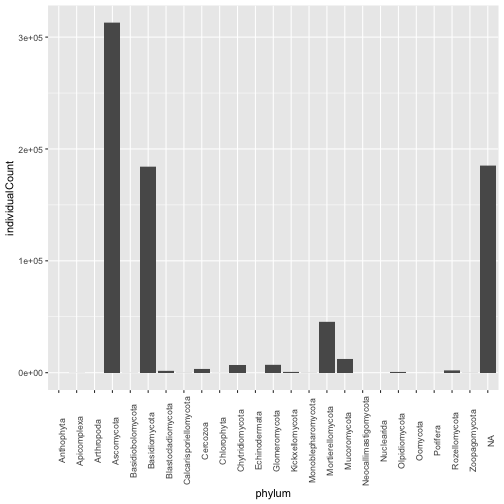
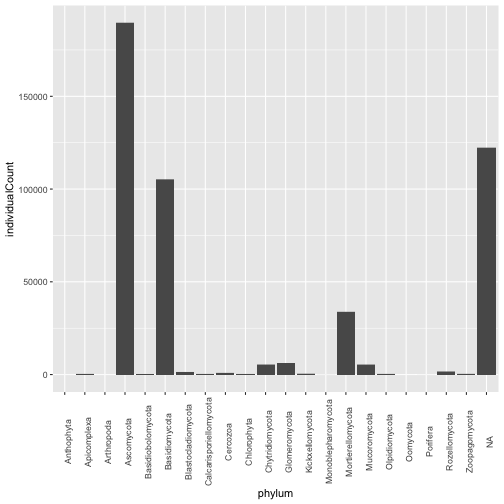
update new features script

diff --git a/tutorials/R/NEON-general/neon-overview/new-features-2025/new-features-2025.html b/tutorials/R/NEON-general/neon-overview/new-features-2025/new-features-2025.html
@@ -123,11 +123,15 @@ section.footnotes {
 
 install.packages(&quot;neonUtilities&quot;)
 
+install.packages(&quot;neonOS&quot;)
+
 install.packages(&quot;lubridate&quot;)
 
-install.packages(&quot;devtools&quot;)
+install.packages(&quot;ggplot2&quot;)
 
-devtools::install_github(&quot;NEONScience/NEON-geolocation/geoNEON&quot;)
+install.packages(&quot;dplyr&quot;)
+
+install.packages(&quot;visNetwork&quot;)
 
 
 
@@ -135,11 +139,15 @@ devtools::install_github(&quot;NEONScience/NEON-geolocation/geoNEON&quot;)
 
 library(neonUtilities)
 
-library(geoNEON)
+library(neonOS)
 
 library(ggplot2)
 
 library(lubridate)
+
+library(dplyr)
+
+library(visNetwork)
 </code></pre>
 <h2 id="sec:the-neonos-package">The neonOS package</h2>
 <p>The <code>neonOS</code> package provides functions specifically for working with NEON observational (OS) data products. NEON’s human-collected data present some unique challenges: the structure and data relationships within each product are unique, automation is more difficult, and sample relationships are often essential. The <code>neonOS</code> package contains functions for duplicate checking, table joining, and sample exploration.</p>
@@ -158,8 +166,6 @@ library(lubridate)
 
 
 list2env(soil, .GlobalEnv)
-
-## &lt;environment: R_GlobalEnv&gt;
 </code></pre>
 <p>To start, we want to assess whether soil moisture is associated with different nitrogen content. Moisture data are in the <code>sls_soilMoisture</code> table, and nitrogen data are in the <code>sls_soilChemistry</code> table. We’ll need to join the tables.</p>
 <p>But before joining, let’s check both tables for duplicates.</p>
@@ -266,23 +272,18 @@ points(nitrogenPercent~soilMoisture,
 <p>The community data are in the expanded data package.</p>
 <pre><code>micro &lt;- loadByProduct(dpID=&quot;DP1.10081.002&quot;, 
                      site=&quot;SOAP&quot;,
-                     startdate=&quot;2018-01&quot;,
+                     startdate=&quot;2018-05&quot;,
                      enddate=&quot;2024-12&quot;,
                      package=&quot;expanded&quot;,
                      include.provisional=T,
                      progress=F,
                      check.size=F)
 
-## 
-## NEON.D17.SOAP.DP1.10081.002.2018-05.expanded.20250129T000730Z.RELEASE-2025.zip could not be downloaded. Re-attempting.
-
 ## Stacking per-sample files. These files may be very large; download data in smaller subsets if performance problems are encountered.
 
 ## Variables file was not found or was inconsistent for table mct_soilPerSampleTaxonomy_ITS. Schema will be inferred; performance may be reduced.
 
 list2env(micro, .GlobalEnv)
-
-## &lt;environment: R_GlobalEnv&gt;
 </code></pre>
 <p>Let’s look at the distribution by phylum of fungal taxon units at SOAP.</p>
 <pre><code>gg &lt;- ggplot(mct_soilPerSampleTaxonomy_ITS, aes(phylum, individualCount)) +
@@ -302,6 +303,34 @@ gg
 <h3 id="sec:pending-feature-neonplants-r-package">Pending feature: neonPlants R package</h3>
 <p>We are very close to releasing the <code>neonPlants</code> package, which will facilitate use of NEON’s various plant data products, including both community and biomass data. Stay tuned!</p>
 <h2 id="sec:samples">Samples</h2>
+<p>We’ve seen above that not all soil samples have associated microbial data. Is there an efficient way to find out the downstream samples from a specific sample?</p>
+<p>The <code>neonOS</code> package includes a function to find the complete sample hierarchy for any given sample. This can be helpful for understanding sample relationships and for interfacing with the <a href="https://biorepo.neonscience.org" target="_blank">NEON Biorepository</a>.</p>
+<h3 id="sec:feature-get-sample-hierarchies">Feature: Get sample hierarchies</h3>
+<p>Let’s look at the sample hierarchies from the first two soil samples in the dataset we downloaded. We’ll use the <code>visNetwork</code> package (a public package not specific to NEON) to visualize the sample relationships.</p>
+<p>First sample:</p>
+<pre><code>samp &lt;- getSampleTree(sls_soilCoreCollection$sampleID[1])
+
+edges &lt;- data.frame(cbind(to=samp$sampleUuid, from=samp$parentSampleUuid))
+
+nodes &lt;- data.frame(cbind(id=samp$sampleUuid, label=samp$sampleTag))
+
+visNetwork(nodes, edges) |&gt;
+  visEdges(arrows=&quot;to&quot;)
+</code></pre>
+<p><img src="https://raw.githubusercontent.com/NEONScience/NEON-Data-Skills/main/tutorials/R/NEON-general/neon-overview/new-features-2025/rfigs/get-sample-tree-1-1.png" alt=" " /></p>
+<p>Second sample:</p>
+<pre><code>samp &lt;- getSampleTree(sls_soilCoreCollection$sampleID[2])
+
+edges &lt;- data.frame(cbind(to=samp$sampleUuid, from=samp$parentSampleUuid))
+
+nodes &lt;- data.frame(cbind(id=samp$sampleUuid, label=samp$sampleTag))
+
+visNetwork(nodes, edges) |&gt;
+  visEdges(arrows=&quot;to&quot;)
+</code></pre>
+<p><img src="https://raw.githubusercontent.com/NEONScience/NEON-Data-Skills/main/tutorials/R/NEON-general/neon-overview/new-features-2025/rfigs/get-sample-tree-2-1.png" alt=" " /></p>
+<p>We can see the second sample tree is much simpler than the first - the soil core has two child samples, a soil moisture and a KCl extract sample. The first sample produced many subsamples, for moisture, pH, genetic archive, and sequencing, and the sequencing sample produced six subsamples of its own.</p>
+<p>Because you can only query one sample at a time this way, its capabilities to support analyses are limited. But it can be very helpful in understanding NEON’s sample workflows and processes. And if you’re working with Biorepository samples, you can use this to find the upstream samples from an archived sample. Your query can start with any sample in the hierarchy, it doesn’t have to start at the top.</p>
 <h2 id="sec:other-languages-and-platforms">Other languages and platforms</h2>
 <h3 id="sec:feature-python-version-of-neonutilities">Feature: Python version of neonutilities</h3>
 <p>For years, neonUtilities has only been available in R, but as of 2024 we have a Python version!</p>

diff --git a/tutorials/R/NEON-general/neon-overview/new-features-2025/new-features-2025.md b/tutorials/R/NEON-general/neon-overview/new-features-2025/new-features-2025.md
@@ -35,11 +35,15 @@ First install and load the necessary packages.
 
     install.packages("neonUtilities")
 
+    install.packages("neonOS")
+
     install.packages("lubridate")
 
-    install.packages("devtools")
+    install.packages("ggplot2")
 
-    devtools::install_github("NEONScience/NEON-geolocation/geoNEON")
+    install.packages("dplyr")
+
+    install.packages("visNetwork")
 
     
 
@@ -47,11 +51,15 @@ First install and load the necessary packages.
 
     library(neonUtilities)
 
-    library(geoNEON)
+    library(neonOS)
 
     library(ggplot2)
 
     library(lubridate)
+
+    library(dplyr)
+
+    library(visNetwork)
 
 
 
@@ -80,8 +88,6 @@ Progress bars can now be suppressed in download functions in the `neonUtilities`
     
 
     list2env(soil, .GlobalEnv)
-
-    ## <environment: R_GlobalEnv>
 
 To start, we want to assess whether soil moisture is associated with different nitrogen content. Moisture data are in the `sls_soilMoisture` table, and nitrogen data are in the `sls_soilChemistry` table. We'll need to join the tables.
 
@@ -220,23 +226,18 @@ The community data are in the expanded data package.
 
     micro <- loadByProduct(dpID="DP1.10081.002", 
                          site="SOAP",
-                         startdate="2018-01",
+                         startdate="2018-05",
                          enddate="2024-12",
                          package="expanded",
                          include.provisional=T,
                          progress=F,
                          check.size=F)
 
-    ## 
-    ## NEON.D17.SOAP.DP1.10081.002.2018-05.expanded.20250129T000730Z.RELEASE-2025.zip could not be downloaded. Re-attempting.
-
     ## Stacking per-sample files. These files may be very large; download data in smaller subsets if performance problems are encountered.
 
     ## Variables file was not found or was inconsistent for table mct_soilPerSampleTaxonomy_ITS. Schema will be inferred; performance may be reduced.
 
     list2env(micro, .GlobalEnv)
-
-    ## <environment: R_GlobalEnv>
 
 Let's look at the distribution by phylum of fungal taxon units at SOAP.
 
@@ -266,7 +267,45 @@ We are very close to releasing the `neonPlants` package, which will facilitate u
 
 ## Samples
 
+We've seen above that not all soil samples have associated microbial data. Is there an efficient way to find out the downstream samples from a specific sample?
 
+The `neonOS` package includes a function to find the complete sample hierarchy for any given sample. This can be helpful for understanding sample relationships and for interfacing with the <a href="https://biorepo.neonscience.org" target="_blank">NEON Biorepository</a>.
+
+### Feature: Get sample hierarchies
+
+Let's look at the sample hierarchies from the first two soil samples in the dataset we downloaded. We'll use the `visNetwork` package (a public package not specific to NEON) to visualize the sample relationships.
+
+First sample:
+
+
+    samp <- getSampleTree(sls_soilCoreCollection$sampleID[1])
+
+    edges <- data.frame(cbind(to=samp$sampleUuid, from=samp$parentSampleUuid))
+
+    nodes <- data.frame(cbind(id=samp$sampleUuid, label=samp$sampleTag))
+
+    visNetwork(nodes, edges) |>
+      visEdges(arrows="to")
+
+![ ](https://raw.githubusercontent.com/NEONScience/NEON-Data-Skills/main/tutorials/R/NEON-general/neon-overview/new-features-2025/rfigs/get-sample-tree-1-1.png)
+
+Second sample:
+
+
+    samp <- getSampleTree(sls_soilCoreCollection$sampleID[2])
+
+    edges <- data.frame(cbind(to=samp$sampleUuid, from=samp$parentSampleUuid))
+
+    nodes <- data.frame(cbind(id=samp$sampleUuid, label=samp$sampleTag))
+
+    visNetwork(nodes, edges) |>
+      visEdges(arrows="to")
+
+![ ](https://raw.githubusercontent.com/NEONScience/NEON-Data-Skills/main/tutorials/R/NEON-general/neon-overview/new-features-2025/rfigs/get-sample-tree-2-1.png)
+
+We can see the second sample tree is much simpler than the first - the soil core has two child samples, a soil moisture and a KCl extract sample. The first sample produced many subsamples, for moisture, pH, genetic archive, and sequencing, and the sequencing sample produced six subsamples of its own.
+
+Because you can only query one sample at a time this way, its capabilities to support analyses are limited. But it can be very helpful in understanding NEON's sample workflows and processes. And if you're working with Biorepository samples, you can use this to find the upstream samples from an archived sample. Your query can start with any sample in the hierarchy, it doesn't have to start at the top.
 
 ## Other languages and platforms
 
